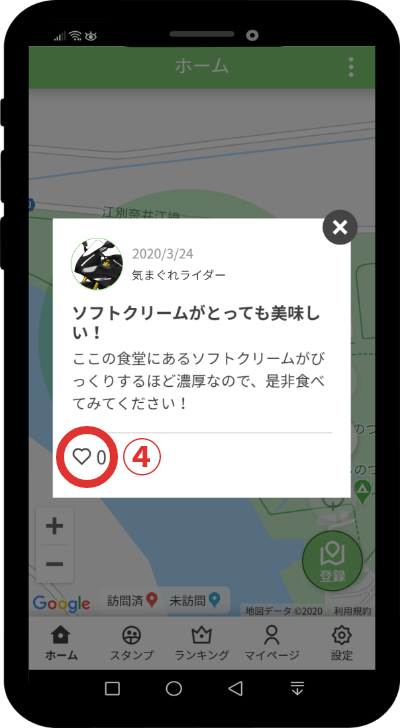
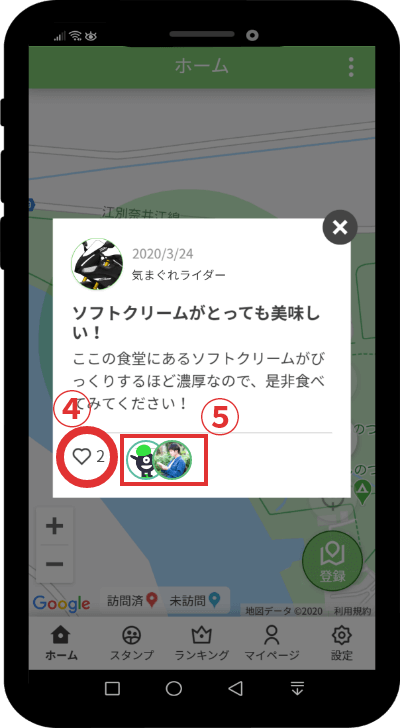
説明追加

Changed region(s): [[0.3, 0.544, 0.6, 0.6648], [0.12, 0.5137, 0.24, 0.6044], [0.24, 0.6044, 0.27, 0.6346]]

diff --git a/works/michimegu/functions/local-memo/index.html b/works/michimegu/functions/local-memo/index.html
@@ -109,13 +109,23 @@
             <div class="description">
               <p>過去のユーザが残したメモが表示されます。
                 <br>④番をタップするとメモに対して「いいね」をつけることができます。</p>
+              <p>⑤番のいいねしたユーザをタップすると、いいねしたユーザの一覧が表示されます。</p>
+            </div>
+          </li>
+          <li class="flex-box">
+            <div class="img-box">
+              <img src="./img/how-to-read04.png" srcset="./img/how-to-read04.png 1x,
+              ./img/how-to-read04@2x.png 2x" alt="メモの閲覧方法4">
+            </div>
+            <div class="description">
+              <p>ユーザ一覧から、ユーザ名(⑥番)をタップすることで各ユーザの詳細を見ることができます。</p>
             </div>
           </li>
         </ol>
       </section>
 
       <section class="how-to-read-mymemo">
-        <h2>自分が残したメモの閲覧および削除方法</h2>
+        <h2>自分が残したメモの確認および削除方法</h2>
         <ol>
           <li class="flex-box">
             <div class="img-box">
@@ -126,7 +136,7 @@
               <p>マイページから自分が残したメモを見ることができます。①番は左から順に、メモを残した道の駅、記録した日付、いいねされた数、閲覧された数を表しています。
                 <br>※非公開メモの場合はいいねアイコンと既読アイコンが表示されません。
               </p>
-              <p>②をタップすると、確認ウィンドウが表示され、OKをタップするとメモを削除することができます。</p>
+              <p>②の削除アイコンをタップすると、確認ウィンドウが表示され、OKをタップするとメモを削除することができます。</p>
               <p>メモをタップすると、メモの詳細が確認できます。</p>
             </div>
           </li>

diff --git a/works/michimegu/functions/local-memo/css/style.css b/works/michimegu/functions/local-memo/css/style.css
@@ -19,8 +19,25 @@
   content: "■";
 }
 
+.how-to-use ol li {
+  position: relative;
+}
+
 .how-to-use ol li+li {
-  margin-top: 30px;
+  margin-top: 70px;
+}
+
+.how-to-use ol li+li::before {
+  content: "";
+  position: absolute;
+  top: -45px;
+  left: 50%;
+  transform: translateX(-50%);
+  display: inline-block;
+  border-top: 20px solid;
+  border-right: 20px solid transparent;
+  border-bottom: 20px solid transparent;
+  border-left: 20px solid transparent;
 }
 
 .how-to-use section .flex-box {

diff --git a/works/michimegu/css/michimegu.css b/works/michimegu/css/michimegu.css
@@ -288,9 +288,9 @@ main section.about {
 }
 
 .news-area .news li .tag {
-  width: 100px;
+  min-width: 80px;
   margin-left: 20px;
-  padding: 2px 0;
+  padding: 2px 4px;
   border: 1px solid #707070;
   font-size: 13px;
   text-align: center;
